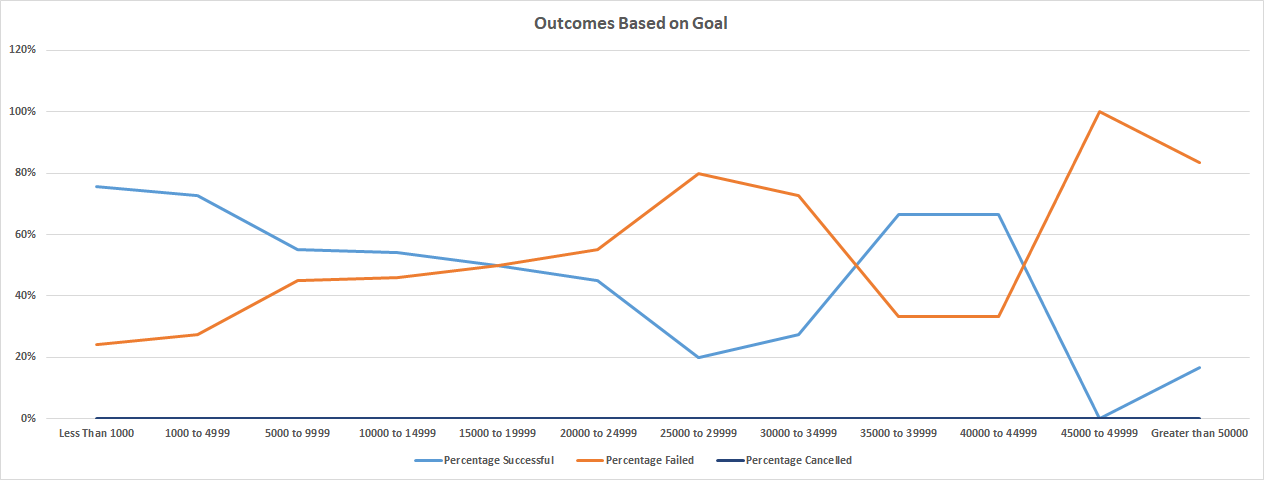
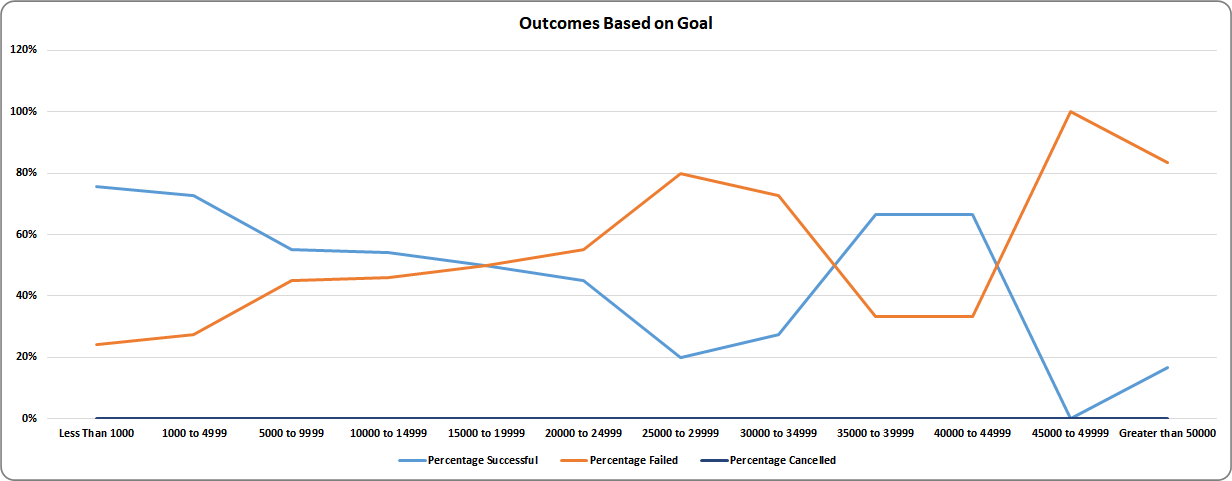
testing README.md fixes

diff --git a/Homework/Module 1 Challenge/README.md b/Homework/Module 1 Challenge/README.md
@@ -10,7 +10,10 @@ To analyse the outcomes for "Theater/Plays" and steer up the fundraising campaig
 The real challenge in this activity is to setup appropriate funding goals that could be tied up to more realistic outcomes. Some more information about the other captured data elements would be helpful to draw out some solid and meaningful conclusions.
 
 ### Analysis of Outcomes Based on Launch Date
-[Please refer the chart below](https://github.com/neerajain9/RDS-BootCamp/blob/master/Homework/Module%201%20Challenge/Theater_Outcomes_vs_Launch.png)
+
+![](https://raw.githubusercontent.com/neerajain9/RDS-BootCamp/master/Homework/Module%201%20Challenge/Theater_Outcomes_vs_Launch.png)
+
+
 First observation in this analysis is that the campaigns took first four month (Jan-Apr) since 2009 till 2017, to build up the number of successful outcomes which peaked in the month of May. But for some reasons it started to decline thereafter for reat of the year except a small increase in the month of October. In the month of December the outcomes had been the lowest, may be beacuse of the holiday season people were more involved with friends 'n family. But during this time of the year people are more generous in pledging so why did the number of outcomes dropped this low; there gotta be other reasons that we are not certain about.
 
 Second obeservation is about the failed campaigns. It seems the failed outcomes had a similar pattern as of the successful ones. To conclude this observation, if we combine the two outcomes the overall patter of the outcomes doesn't change. We must identify what really happend in the month of May to see that spike and then the reasons why it started depleting.
@@ -20,6 +23,7 @@ Next, there had been 0% t0 8% cancellations. The highest in the month of Jan. So
 Finally, the good news is that there had been more than 50% campaigns that were successful and these outcomes were as high as 68%.
 
 ### Analysis of Outcomes Based on Goals
+![](https://raw.githubusercontent.com/neerajain9/RDS-BootCamp/master/Homework/Module%201%20Challenge/Outcomes_vs_Goals.png)
 Firstly, based on goals established there were no "Plays" cancellations. So, it seems the goals were setup appropriatly.
 
 Next, there were lot more successes with goals under $15,000. Between $15,000 and $20,000 the success to failure ratio was 50-50 which declined with an exception of the goal range from $35,000 and $45,000 (66.67: 33.33).
@@ -33,27 +37,27 @@ From business standpoint, I wasn't sure if I should have looked at other data el
 
 ## Results
 
-- What are two conclusions you can draw about the Outcomes based on Launch Date?
+**- What are two conclusions you can draw about the Outcomes based on Launch Date?**
 
-    1. We must identify the reasons for high points in May so that we could use those to deploy with other campaigns. What affects the downside of the outcomes especially in the month of December so that we could formulate some strategy to bring up these.
+1. We must identify the reasons for high points in May so that we could use those to deploy with other campaigns. What affects the downside of the outcomes especially in the month of December so that we could formulate some strategy to bring up these.
 
-    2. We should also identify the reasons for the failed outcomes in order to convert them into successes strategically.
+2. We should also identify the reasons for the failed outcomes in order to convert them into successes strategically.
 
-- What can you conclude about the Outcomes based on Goals?
+**- What can you conclude about the Outcomes based on Goals?**
 
-    1. The smaller goals were achieved easily and were more succesful. Goals with less than $5,000 were 75% succesful than failures.
+1. The smaller goals were achieved easily and were more succesful. Goals with less than $5,000 were 75% succesful than failures.
 
-    2. Setting up goals with $20,000 and higher isn't a good recomendation.
+2. Setting up goals with $20,000 and higher isn't a good recomendation.
 
-    3. There had been couple of outliers in the gols ranging between $35,000 and $45,000. We are not sure what happend there. But certainly there weren't many campaigns in this range (only 9 in all). 
+3. There had been couple of outliers in the gols ranging between $35,000 and $45,000. We are not sure what happend there. But certainly there weren't many campaigns in this range (only 9 in all). 
 
-- What are some limitations of this dataset?
+**- What are some limitations of this dataset?**
 
-    I wish there was more information about the captured data elements. Bringing those into the analysis would have been more helpful to draw out meaningful conclusions.
+*   I wish there was more information about the captured data elements. Bringing those into the analysis would have been more helpful to draw out meaningful conclusions.
 
-- What are some other possible tables and/or graphs that we could create?
-    1. We could create Pivot char/table to compare outcomes by Parent Category
-    2. We could create Pivot char/table to compare outcomes by Parent Category and Subcategory
-    3. We could do some Descriptive Statistics based on succesful, failed, cancelled outcomes.
-    4. We could create box & whisker's chart to figure out outliers and proposed goal ranges visually
-    5. I am sure there's a lot more other analysis can be carried out based on what are we looking to find out and for what purpose. The analysis is based on the business requirements and we can then focus our approach appropriately.
+**- What are some other possible tables and/or graphs that we could create?**
+* We could create Pivot char/table to compare outcomes by Parent Category
+* We could create Pivot char/table to compare outcomes by Parent Category and Subcategory
+* We could do some Descriptive Statistics based on succesful, failed, cancelled outcomes.
+* We could create box & whisker's chart to figure out outliers and proposed goal ranges visually
+* I am sure there's a lot more other analysis can be carried out based on what are we looking to find out and for what purpose. The analysis is based on the business requirements and we can then focus our approach appropriately.
